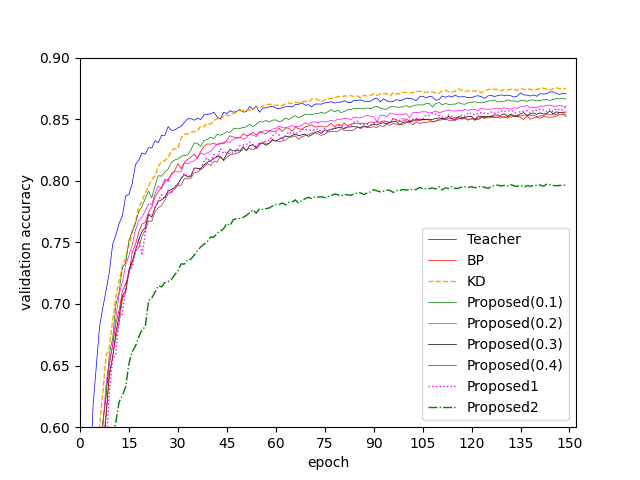
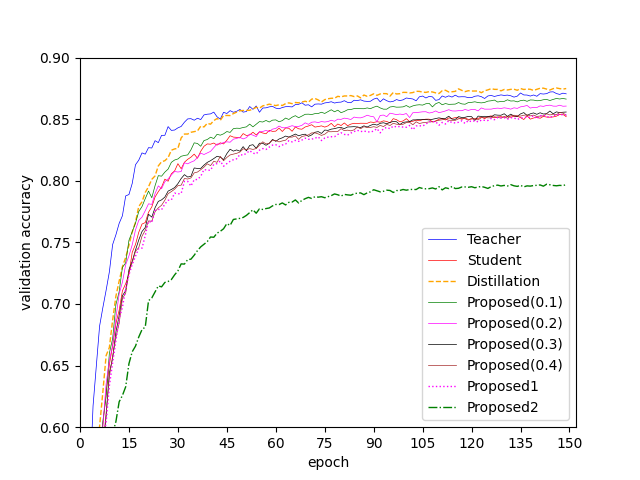
experiments

diff --git a/result.py b/result.py
@@ -28,7 +28,7 @@ def main():
             cam02_iter   = 10
             cam03_iter   = 10
             cam04_iter   = 10
-            cam05_iter   = 4 #NOW adaptpc(4,5) synapse(6,7) ice(8,9)
+            cam05_iter   = 10 
             cam10_iter   = 10
     elif model_type == 'normal':
         if epochs == 150:
@@ -99,7 +99,7 @@ def main():
     print('| Proposed(0.4)    | avg: ' + str(cam04_avg)   + ' | best: ' + str(cam04_best)   + ' |')
     print('| Proposed(0.5)    | avg: ' + str(cam05_avg)   + ' | best: ' + str(cam05_best)   + ' |')
     print('| Proposed(0.5->0) | avg: ' + str(cam10_avg)   + ' | best: ' + str(cam10_best)   + ' |')
-    
+
     # loading history and plot
     teacher_acc = load_hist(teacher_path, epochs, teacher_iter)
     student_acc = load_hist(student_path, epochs, student_iter)
@@ -118,15 +118,15 @@ def main():
     plt.xlabel('epoch')
     plt.ylabel('validation accuracy')
     plt.plot(x, teacher_acc, label='Teacher',               linewidth=0.5, color='blue')
-    plt.plot(x, student_acc, label='BP',               linewidth=0.5, color='red')
-    plt.plot(x, st_acc,      '--', label='KD',      linewidth=1.0, color='orange')
+    plt.plot(x, student_acc, label='Student',               linewidth=0.5, color='red')
+    plt.plot(x, st_acc,      '--', label='Distillation',      linewidth=1.0, color='orange')
     plt.plot(x, cam01_acc,   label='Proposed(0.1)',     linewidth=0.5, color='green')
     plt.plot(x, cam02_acc,   label='Proposed(0.2)',     linewidth=0.5, color='magenta')
     plt.plot(x, cam03_acc,   label='Proposed(0.3)',    linewidth=0.5, color='black')
     plt.plot(x, cam04_acc,   label='Proposed(0.4)',    linewidth=0.5, color='brown')
     plt.plot(x, cam05_acc,   ':', label='Proposed1',     linewidth=1.0, color='magenta')
     plt.plot(x, cam10_acc,   '-.', label='Proposed2', linewidth=1.0, color='green')
-    
+
     if model_type == 'normal':
         plt.xticks(np.arange(0, epochs+10, epochs/10))
         plt.yticks(np.arange(0, 1.0, 0.1))
